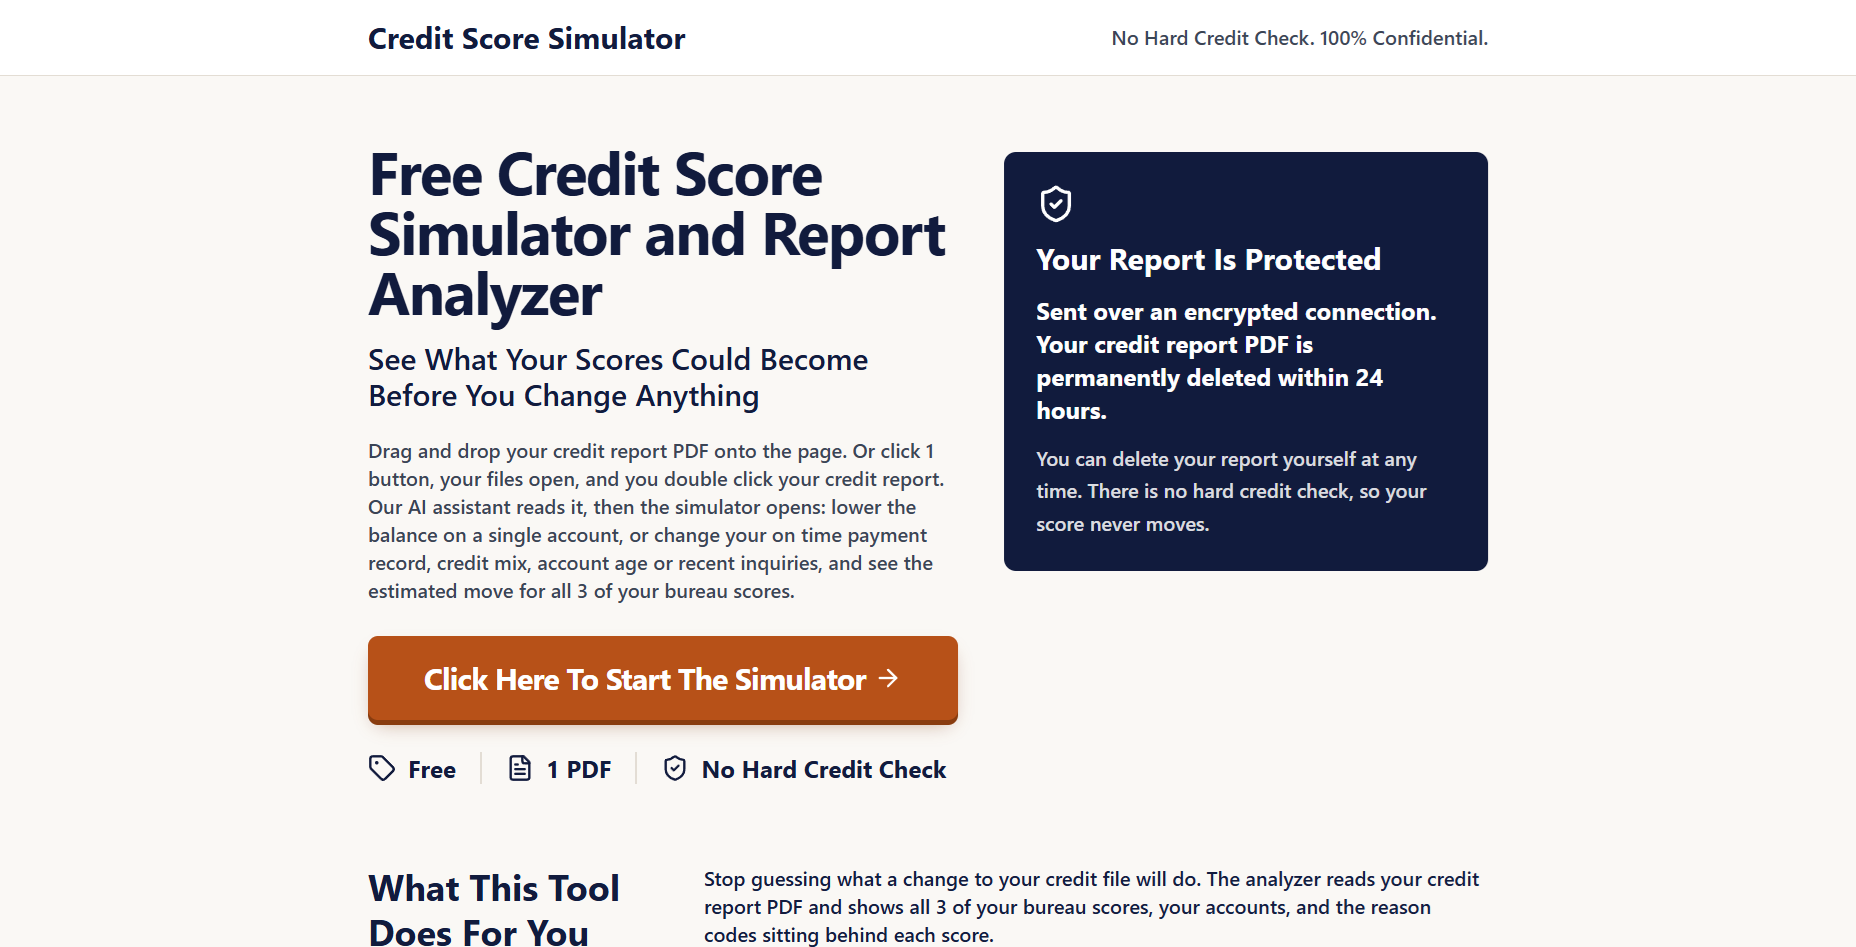
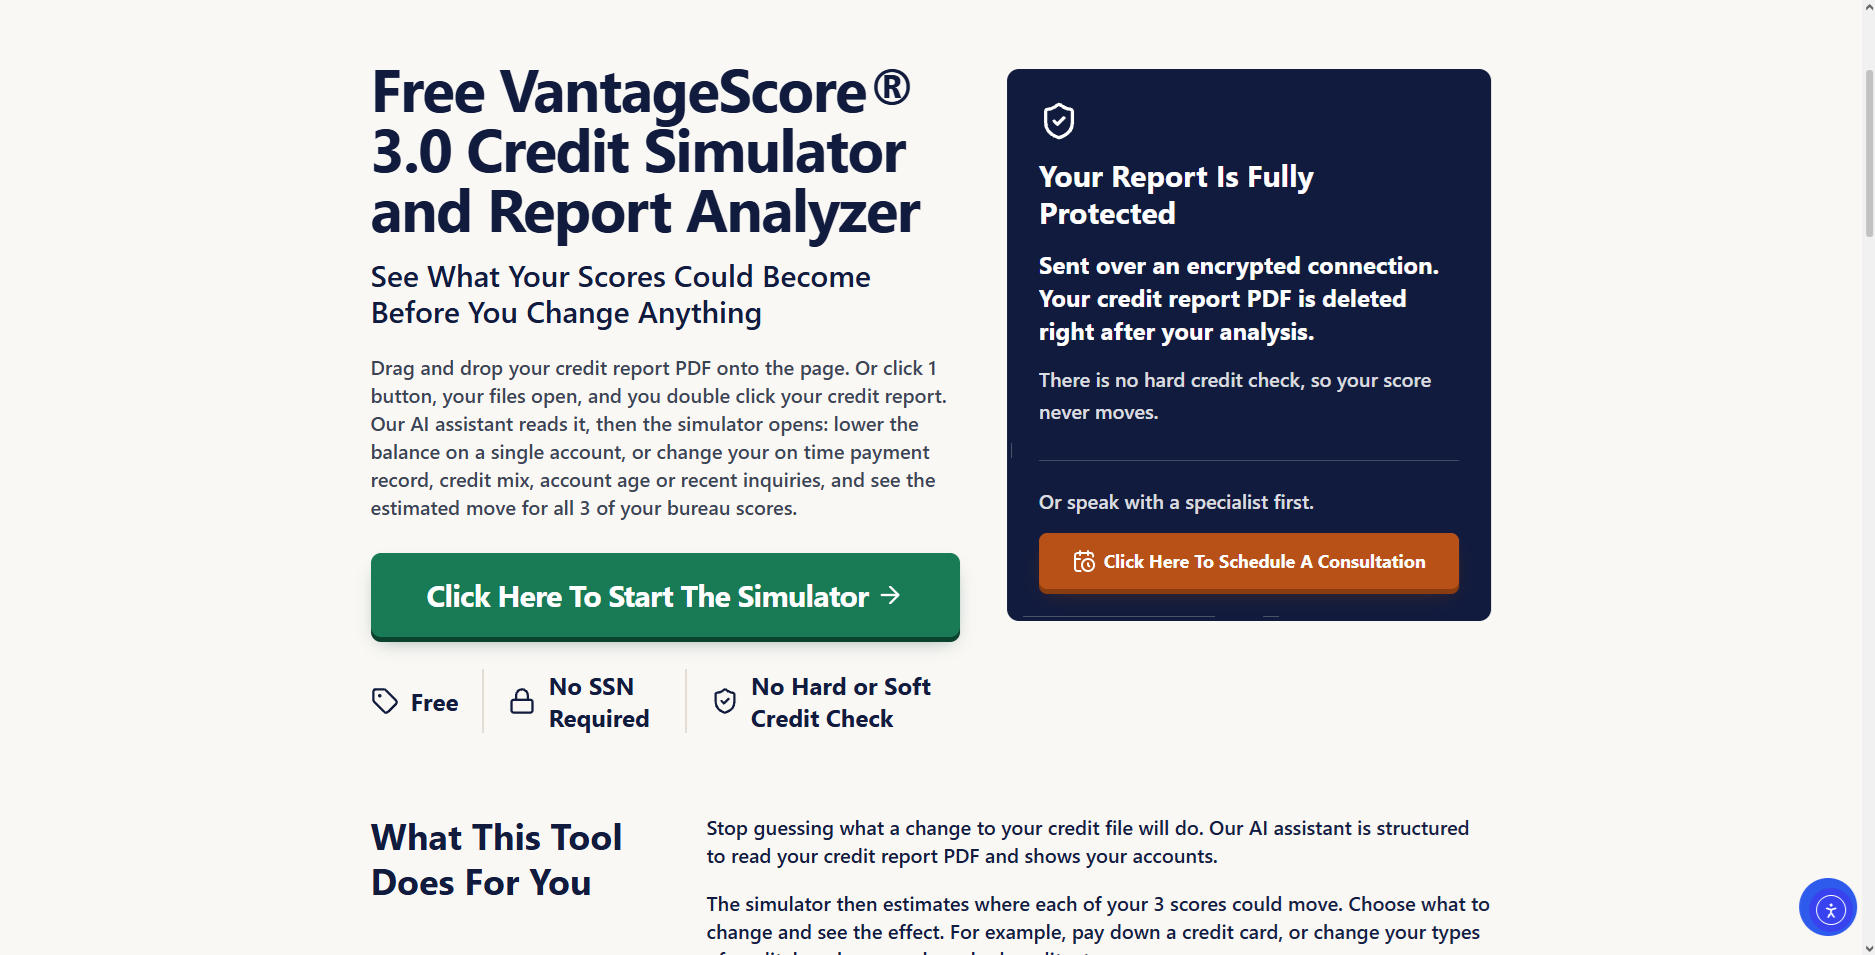
Updates projects

diff --git a/data/projects.ts b/data/projects.ts
@@ -14,6 +14,35 @@ export interface Project {
 export const projects: Project[] = [
   // Nextjs Applications
   {
+    id: "credit-score-simulator",
+    title: "Credit Report Analyzer & Credit Score Simulator",
+    description: "This app is built with Next.js + Supabase + OpenRouter + GoHighLevel",
+    imageUrl: "/images/Credit-score-simulator.png",
+    link: "https://creditcrb.com/identityIQ-credit-simulator/",
+    category: "Nextjs",
+    whatIsIt: "An AI-powered platform that parses credit report PDFs, extracts key metrics, powers an interactive credit score simulator, and generates personalized roadmaps to reach a 700+ credit score.",
+    contributions: [
+      "Full-stack development with Next.js and Supabase (auth, database, storage)",
+      "Credit report PDF ingestion, parsing, and AI metric extraction via OpenRouter",
+      "Interactive score simulator with personalized roadmap recommendations",
+      "GoHighLevel (GHL) CRM integration for lead capture and automation",
+    ],
+  },
+  {
+    id: "business-loan-analyzer",
+    title: "Business Loan Analyzer Tool",
+    description: "This app is built with Next.js + Supabase + OpenRouter + GoHighLevel",
+    imageUrl: "/images/business-loan-analyzer.png",
+    link: "https://creditcrb.com/business-loan-analyzer/",
+    category: "Nextjs",
+    whatIsIt: "An AI-powered tool that accepts business inputs and evaluates qualification criteria to automatically match users with eligible business loan offers.",
+    contributions: [
+      "Full-stack development with Next.js and Supabase (auth, database, storage)",
+      "AI-driven qualification and loan-matching logic via OpenRouter",
+      "GoHighLevel (GHL) CRM integration for lead capture and automation",
+    ],
+  },
+  {
     id: "nessy-application",
     title: "Nessy Cloud Application",
     description: "This website is built with Nextjs + graphQL + prisma",
@@ -123,35 +152,6 @@ export const projects: Project[] = [
       "Full-stack development with Next.js and Supabase (auth, database, storage)",
       "UI implementation using Material UI (MUI) component library",
       "Car listing, booking flow, and availability management",
-    ],
-  },
-  {
-    id: "business-loan-analyzer",
-    title: "Business Loan Analyzer Tool",
-    description: "This app is built with Next.js + Supabase + OpenRouter + GoHighLevel",
-    imageUrl: "/images/business-loan-analyzer.png",
-    link: "https://business-loan-analyzer-tool.vercel.app",
-    category: "Nextjs",
-    whatIsIt: "An AI-powered tool that accepts business inputs and evaluates qualification criteria to automatically match users with eligible business loan offers.",
-    contributions: [
-      "Full-stack development with Next.js and Supabase (auth, database, storage)",
-      "AI-driven qualification and loan-matching logic via OpenRouter",
-      "GoHighLevel (GHL) CRM integration for lead capture and automation",
-    ],
-  },
-  {
-    id: "credit-score-simulator",
-    title: "Credit Report Analyzer & Credit Score Simulator",
-    description: "This app is built with Next.js + Supabase + OpenRouter + GoHighLevel",
-    imageUrl: "/images/Credit-score-simulator.png",
-    link: "https://identity-iq-credit-score-simulator.vercel.app",
-    category: "Nextjs",
-    whatIsIt: "An AI-powered platform that parses credit report PDFs, extracts key metrics, powers an interactive credit score simulator, and generates personalized roadmaps to reach a 700+ credit score.",
-    contributions: [
-      "Full-stack development with Next.js and Supabase (auth, database, storage)",
-      "Credit report PDF ingestion, parsing, and AI metric extraction via OpenRouter",
-      "Interactive score simulator with personalized roadmap recommendations",
-      "GoHighLevel (GHL) CRM integration for lead capture and automation",
     ],
   },
   {
